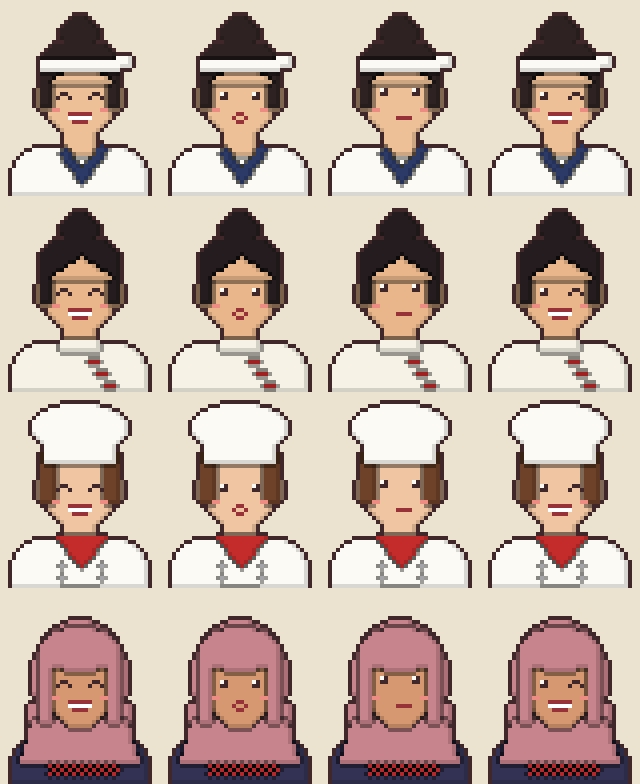
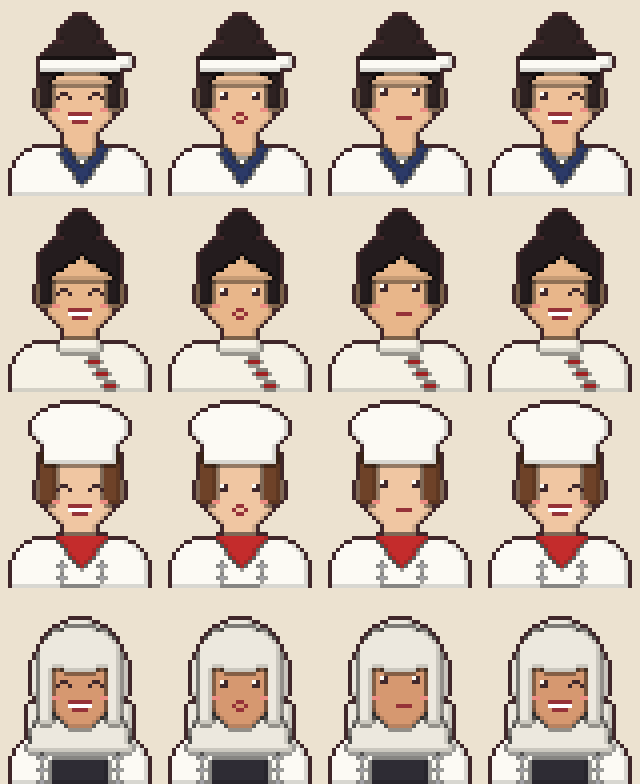
Middle Eastern woman cook as a professional cook: plain hijab, chef jacket, apron, four hijab colors
No source gives a traditional kitchen outfit for Middle Eastern women; she now wears what women
chefs who wear a hijab wear (white chef jacket, apron) with a plain hijab, white by default after the
plain white veils of village women; black, navy and rose drawn as variations
(previews/middle_eastern_woman_variations.png). Sources in references/chefs/README.md.

Changed region(s): [[0.0, 0.7959, 1.0, 1.0]]

diff --git a/design/pixel-art/make_women_chefs.py b/design/pixel-art/make_women_chefs.py
@@ -7,8 +7,8 @@ What each one wears (sources in references/chefs/README.md):
     kimono collar, hair in a bun under a white tenugui headband
   - chinese: a white jacket with a mandarin collar and red frog buttons, as on samfoo work clothes, hair in a bun
   - classic: a white toque, a double-breasted white jacket and a red neckerchief, like the classic chef reference
-  - middle_eastern: a headscarf over the hair and neck, and a dark dress with a band of red cross-stitch
-    embroidery (tatreez) across the chest
+  - middle_eastern: a plain hijab with the white chef jacket and an apron, as women chefs who wear a hijab do in
+    professional kitchens (HIJABS: the color variations)
 
     python design/pixel-art/make_women_chefs.py
 """
@@ -29,14 +29,22 @@ LOOKS = {
     "japanese": {"skin": (238, 192, 152), "hair": (46, 34, 34), "cloth": WHITE, "accent": (44, 58, 104)},
     "chinese": {"skin": (232, 182, 138), "hair": (36, 28, 30), "cloth": (246, 242, 230), "accent": (186, 40, 40)},
     "classic": {"skin": (240, 198, 162), "hair": (110, 66, 40), "cloth": WHITE, "accent": (196, 44, 44)},
-    "middle_eastern": {"skin": (214, 152, 112), "hair": (40, 30, 30), "cloth": (52, 50, 84),
-                       "accent": (200, 132, 140), "stitch": (206, 48, 52)},
+    "middle_eastern": {"skin": (214, 152, 112), "hair": (40, 30, 30), "cloth": WHITE,
+                       "accent": (236, 232, 222), "apron": (46, 44, 52)},
+}
+# The Middle Eastern cook's choices: a plain hijab in one color with the white chef jacket, and the apron's color
+HIJABS = {
+    "white": {"accent": (236, 232, 222), "apron": (46, 44, 52)},
+    "black": {"accent": (44, 40, 48), "apron": (110, 70, 44)},
+    "navy": {"accent": (44, 58, 104), "apron": (46, 44, 52)},
+    "rose": {"accent": (200, 132, 140), "apron": (110, 70, 44)},
 }
 
 
-def figure(region: str, mood: str) -> np.ndarray:
-    """The cook drawn in layers, each over the last, then shaded and outlined; returns RGBA."""
-    look = LOOKS[region]
+def figure(region: str, mood: str, look: dict | None = None) -> np.ndarray:
+    """The cook drawn in layers, each over the last, then shaded and outlined; returns RGBA. look overrides the
+    region's colors (the hijab variations)."""
+    look = {**LOOKS[region], **(look or {})}
     layers: list[tuple[tuple[int, int, int], Image.Image]] = []
 
     def layer(color: tuple[int, int, int]) -> ImageDraw.ImageDraw:
@@ -51,8 +59,8 @@ def figure(region: str, mood: str) -> np.ndarray:
     d = layer(look["cloth"])                                 # shoulders
     d.rounded_rectangle((3, 34, 36, H + 4), radius=7, fill=1)
     if region == "middle_eastern":
-        d = layer(look["accent"])                            # the scarf over the shoulders
-        d.polygon([(8, 30), (31, 30), (34, 40), (5, 40)], fill=1)
+        d = layer(look["accent"])                            # the hijab over the shoulders
+        d.polygon([(9, 30), (30, 30), (32, 37), (7, 37)], fill=1)
     d = layer(look["skin"])                                  # neck, ears and face
     if region != "middle_eastern":
         d.rectangle((16, 28, 23, 35), fill=1)
@@ -102,11 +110,12 @@ def figure(region: str, mood: str) -> np.ndarray:
             d.point((15, y), fill=1)
             d.point((25, y), fill=1)
     else:
-        d = layer(look["stitch"])                            # a band of cross-stitch across the chest
-        for x in range(12, 29, 2):
-            d.point((x, 41), fill=1)
-            d.point((x + 1, 42), fill=1)
-            d.point((x, 43), fill=1)
+        d = layer(look["apron"])                             # the apron's bib, over the chef jacket
+        d.rectangle((13, 40, 26, H), fill=1)
+        d = layer((190, 190, 196))                           # the jacket's buttons, either side of the bib
+        for y in (39, 42, 45):
+            d.point((10, y), fill=1)
+            d.point((29, y), fill=1)
 
     rgb = np.zeros((H, W, 3), np.float32)
     z = np.full((H, W), -1)
@@ -175,6 +184,18 @@ def face(rgb: np.ndarray, mood: str) -> None:
             px(x, 26, MOUTH)
 
 
+def variations() -> None:
+    """previews/middle_eastern_woman_variations.png: each hijab color, happy and wink."""
+    rows = []
+    for colors in HIJABS.values():
+        faces = [Image.fromarray(figure("middle_eastern", mood, colors), "RGBA")
+                 .resize((W * SCALE, (H + TOP) * SCALE), Image.NEAREST) for mood in ("happy", "wink")]
+        rows.append(np.concatenate([np.array(f) for f in faces], axis=1))
+    sheet = Image.fromarray(np.concatenate(rows, axis=1))
+    back = Image.new("RGBA", sheet.size, (236, 226, 208, 255))
+    Image.alpha_composite(back, sheet).save(HERE / "previews" / "middle_eastern_woman_variations.png")
+
+
 def main() -> None:
     rows = []
     for region in LOOKS:
@@ -187,6 +208,7 @@ def main() -> None:
     sheet = Image.fromarray(np.concatenate(rows, axis=0))
     back = Image.new("RGBA", sheet.size, (236, 226, 208, 255))
     Image.alpha_composite(back, sheet).save(HERE / "previews" / "women_chefs.png")
+    variations()
 
 
 if __name__ == "__main__":

diff --git a/design/pixel-art/references/chefs/README.md b/design/pixel-art/references/chefs/README.md
@@ -8,7 +8,7 @@ app (the man cooks); `../../make_women_chefs.py` draws the woman cook of each re
 | Japanese | `chef1_asian_headband.png` | White kappogi over an indigo kimono collar, hair in a bun, tenugui headband |
 | Chinese | `chef3_asian_scarf.png` | White mandarin-collar jacket with red frog buttons, hair in a bun |
 | Classic (Mediterranean and the default) | `chef2_classic_white_hat.png` | White toque, double-breasted jacket, red neckerchief |
-| Middle Eastern | `chef4_middle_eastern.png` | Headscarf, dark dress with a band of red cross-stitch (tatreez) |
+| Middle Eastern | `chef4_middle_eastern.png` | Plain hijab (white by default; black, navy and rose drawn too) with the white chef jacket and an apron |
 
 ## Sources for the clothes
 
@@ -18,6 +18,9 @@ app (the man cooks); `../../make_women_chefs.py` draws the woman cook of each re
 - Mandarin collar and frog buttons: [Tangzhuang](https://en.wikipedia.org/wiki/Tangzhuang),
   [Mandarin collar](https://en.wikipedia.org/wiki/Mandarin_collar); the white mandarin-collar samfoo top as
   women's work clothes: [Roots.sg](https://roots.gov.sg/Collection-Landing/listing/1395235).
-- Levantine dress, for the embroidered dress: [Costumes of the Levant](https://lib-webarchive.aub.edu.lb/BorreLudvigsen/mp_/http:/almashriq.hiof.no/general/600/640/646/costumes_of_the_Levant).
-  No source was found for a specific kitchen outfit of Middle Eastern women cooks, so the headscarf and dress are
-  general everyday dress, not a cook's uniform. The team should check this one.
+- The Middle Eastern woman cook: no source gives a traditional kitchen outfit (home dress varies by country, and many
+  women do not cover their hair at home with only family: [IslamQA](https://islamqa.info/en/answers/221744),
+  [overview](https://twocontinents.com/blog/how-do-arab-women-dress)). She is drawn as a professional cook: women
+  chefs who wear a hijab wear it with the white chef jacket ([Amanda Saab on MasterChef](https://mostresource.org/?p=10617)).
+  Village women in southern Palestine wore plain white head veils every day until the mid-1900s
+  ([Google Arts & Culture](https://artsandculture.google.com/asset/veil/jwHRZa9nqGbkYg)), the reason white is the default.
